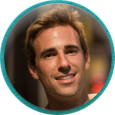
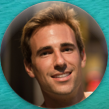
updated image + added media logic

diff --git a/index.html b/index.html
@@ -9,10 +9,10 @@
   <style>
     header{background: #333333; min-height: 50px;}
     img{width: 100%}
-    .pink{background: #ea8493}
-    .yellow{background: #ffcc66}
-    .blue{background: #9999ff}
-    .mint{background: #99ff99}
+    .pink-btn{background: #ea8493}
+    .yellow-btn{background: #ffcc66}
+    .blue-btn{background: #9999ff}
+    .mint-btn{background: #99ff99}
     .full-width-call-out{min-height: 50px;width: 90%}
     ul{list-style: none;}
     footer{background: #cccccc;padding: 10% 0 10% 0}
@@ -31,26 +31,30 @@
       top: 30px;
       width:150px;
     }
+    .circle-picture-frame img {
+      border-radius: 50%;
+    }
     .shadow{
       -webkit-box-shadow: 0px 3px 0px rgba(0, 0, 0, 0.3);
       -moz-box-shadow: 0px 3px 0px rgba(0, 0, 0, 0.3);
       box-shadow: 0px 3px 0px rgba(0, 0, 0, 0.3);
     }
     .personal-info{
-      position: absolute; 
+      position: absolute;
       margin: auto;
       left: 0; 
       right: 0;
-      bottom: 60px;
+      bottom: 40px;
     }
     @media screen and (min-width: 450px) {
-      .circle-picture-frame, .personal-info{display: none;}
+      .circle-picture-frame, .personal-info, .mint-button{display: none;}
     }
+
   </style>
 </head>
 <body>
 
-  <header class="text-center display-12"></header>
+  <header class="text-center"></header>
   <div class="bd-pageheader text-center">
     <picture>
      <source srcset="https://placehold.it/1400x500?text=large-media" media="(min-width: 900px)">
@@ -63,17 +67,17 @@
     <img src="images/face.png"/>
    </div>
    <div class="personal-info hidden-lg hidden-md hidden-sm">
-    <span class="lead">San Francisco</span>
+    <span class="lead">San Francisco, CA</span>
     <p>34 Friends</p>
    </div>
   </div>
 
   <div class="container-fluid">
     <div class="row">
-      <div class="col-xs-12 col-sm-6 col-md-4 col-lg-4"><button type="button" class="btn blue btn-block btn-lg">Learn More</button></div>
-      <div class="col-xs-12 cell col-sm-6 col-md-4 col-lg-4"><button type="button" class="btn square pink btn-block btn-lg">&nbsp;</button></div>
-      <div class="col-xs-12 cell col-sm-12 col-md-4 col-lg-4"><button type="button" class="btn btn-block yellow btn-lg">&nbsp;</button></div>
-      <div class="col-xs-12 hidden-lg hidden-md hidden-sm"><button type="button" class="btn btn-block mint btn-lg shadow">&nbsp;</button></div>
+      <div class="col-xs-12 col-sm-6 col-md-4 col-lg-4"><button type="button" class="btn blue-btn btn-block btn-lg">Learn More</button></div>
+      <div class="col-xs-12 cell col-sm-6 col-md-4 col-lg-4"><button type="button" class="btn square pink-btn btn-block btn-lg">&nbsp;</button></div>
+      <div class="col-xs-12 cell col-sm-12 col-md-4 col-lg-4"><button type="button" class="btn btn-block yellow-btn btn-lg">&nbsp;</button></div>
+      <div class="mint-button col-xs-12 hidden-lg hidden-md hidden-sm"><button type="button" class="btn btn-block mint-btn btn-lg shadow">&nbsp;</button></div>
     </div>
   </div>
 
@@ -87,14 +91,14 @@
   </div>
 
   <footer class="container-fluid">
-    <div class="col-xs-12 col-sm-6">
+    <div class="col-xs-12 col-sm-9">
       <ul>
         <li class="lead">footer link 1</li>
         <li>Link to fun land</li>
         <li>Link to no so fun land</li>
       </ul>
     </div>
-    <div class="col-xs-12 col-sm-6 hidden-xs">
+    <div class="col-xs-12 col-sm-3 hidden-xs">
       <ul>
         <li class="lead">footer link 2</li>
         <li>Link to fun land</li>
